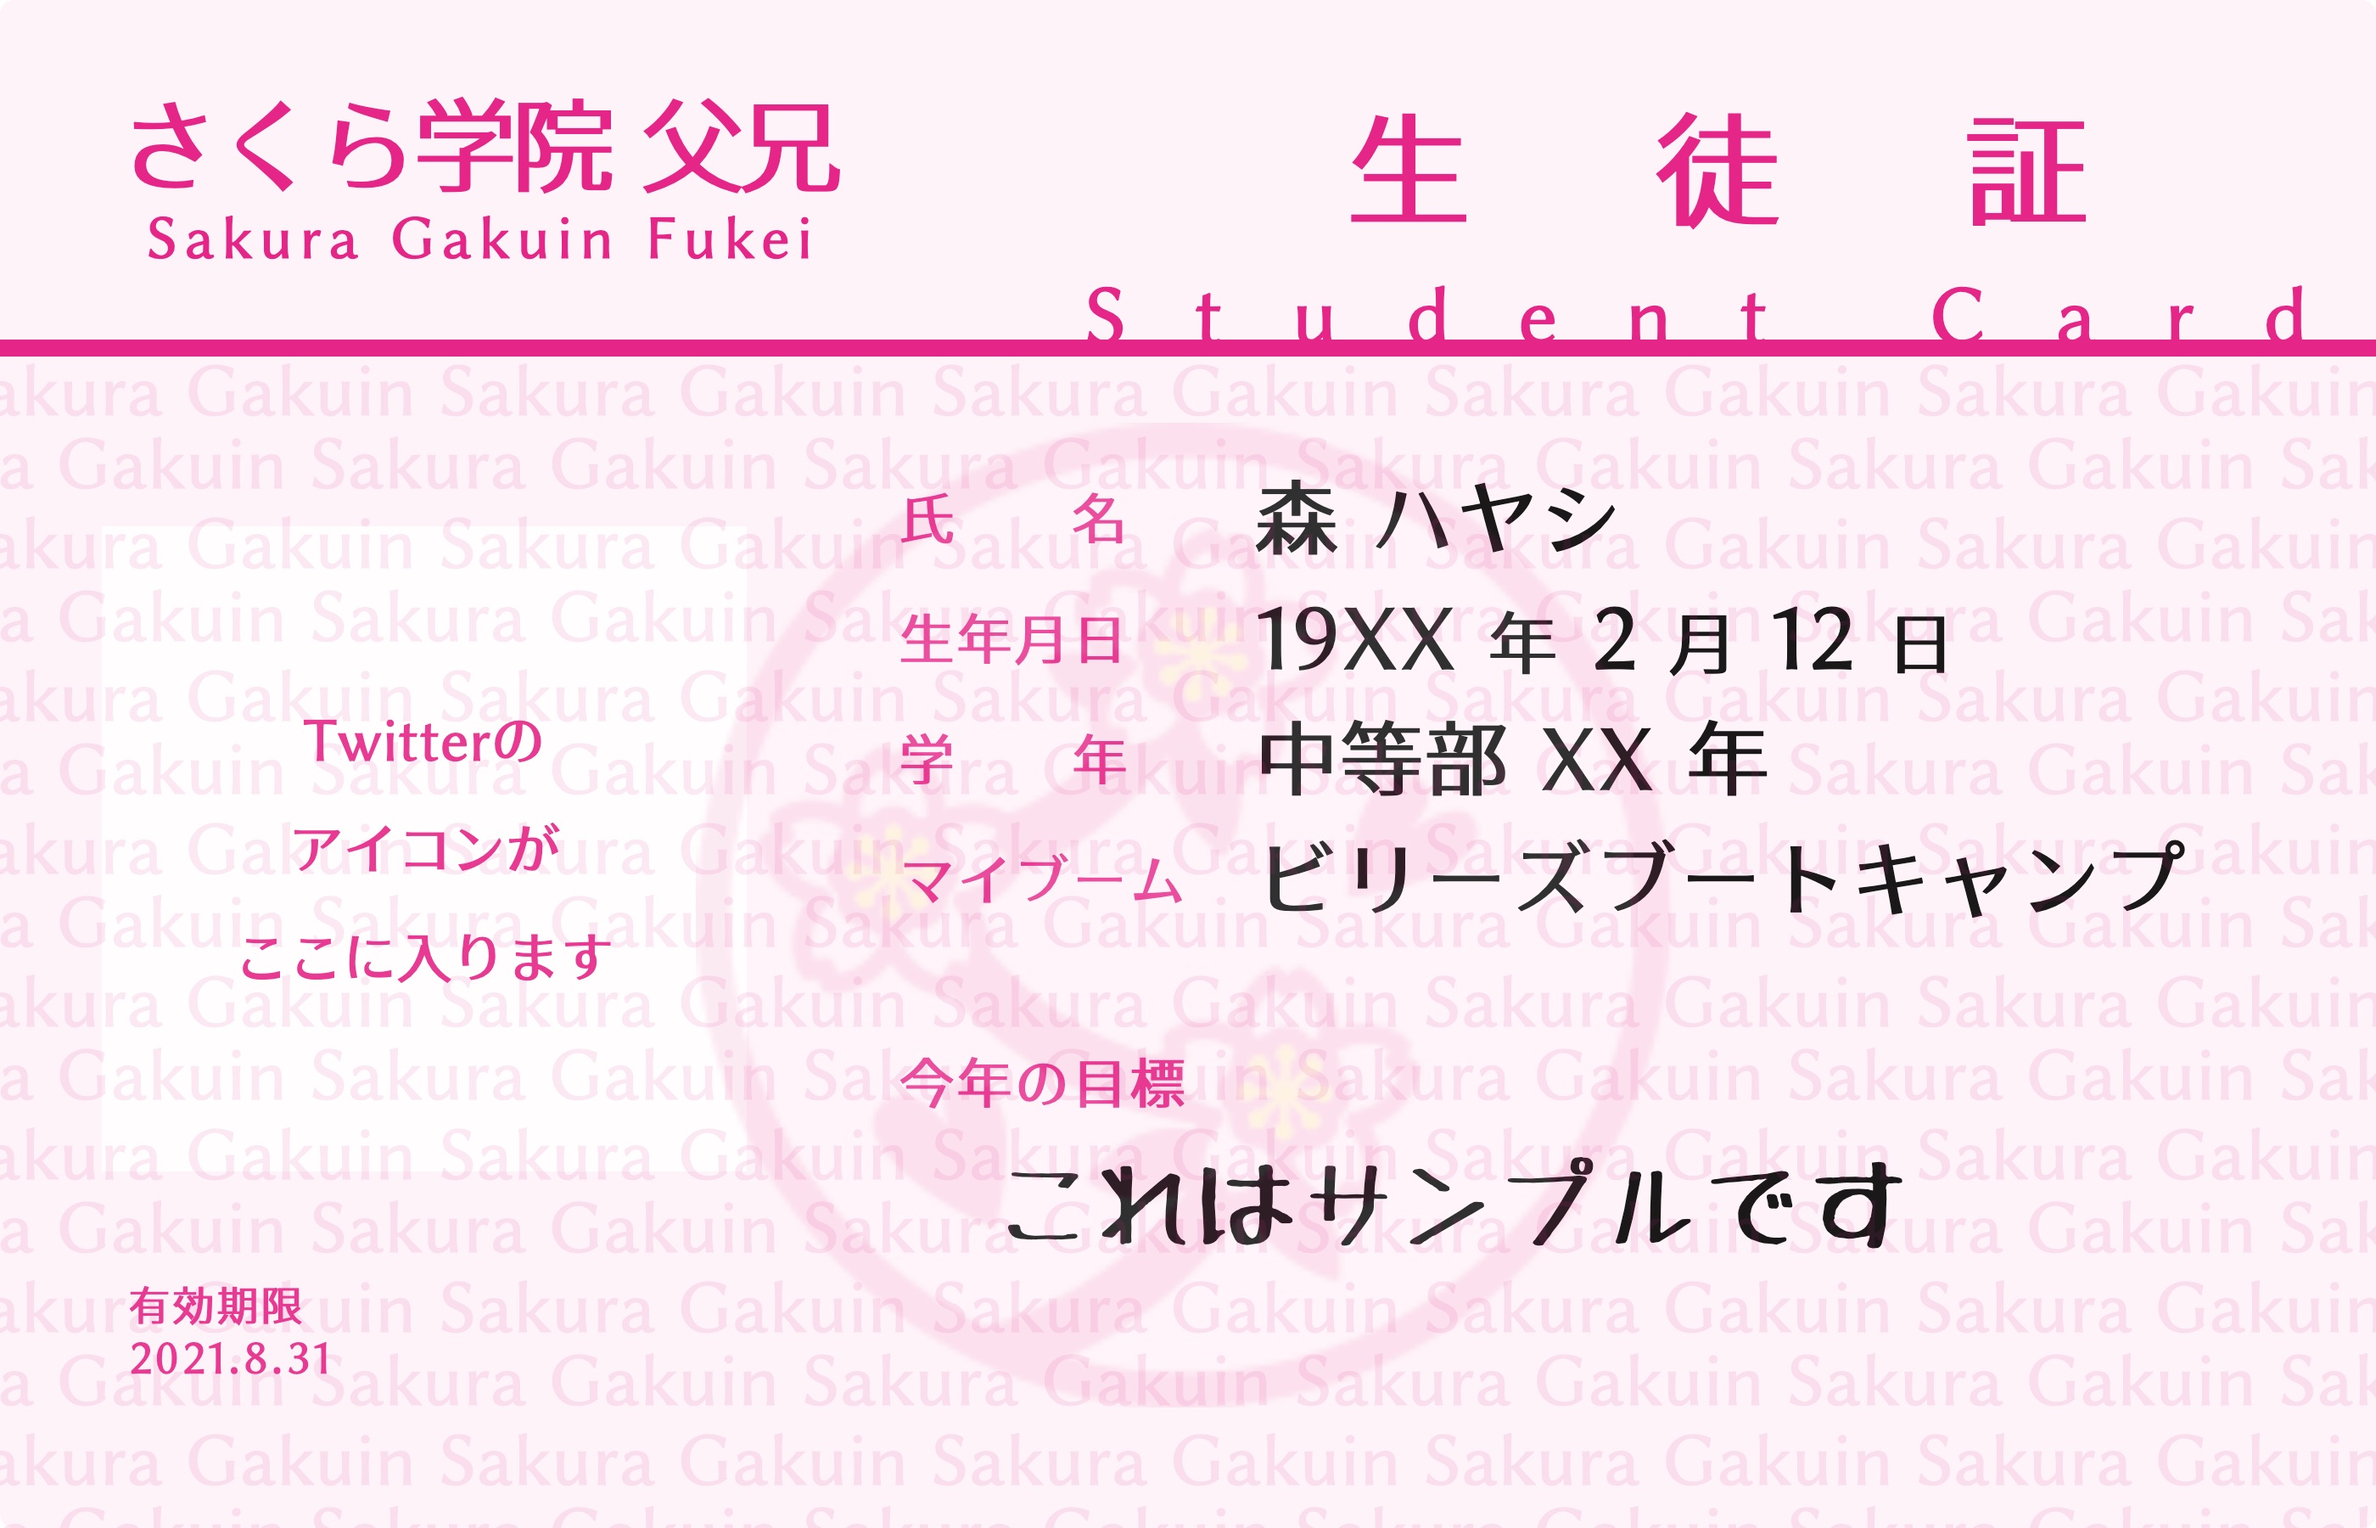
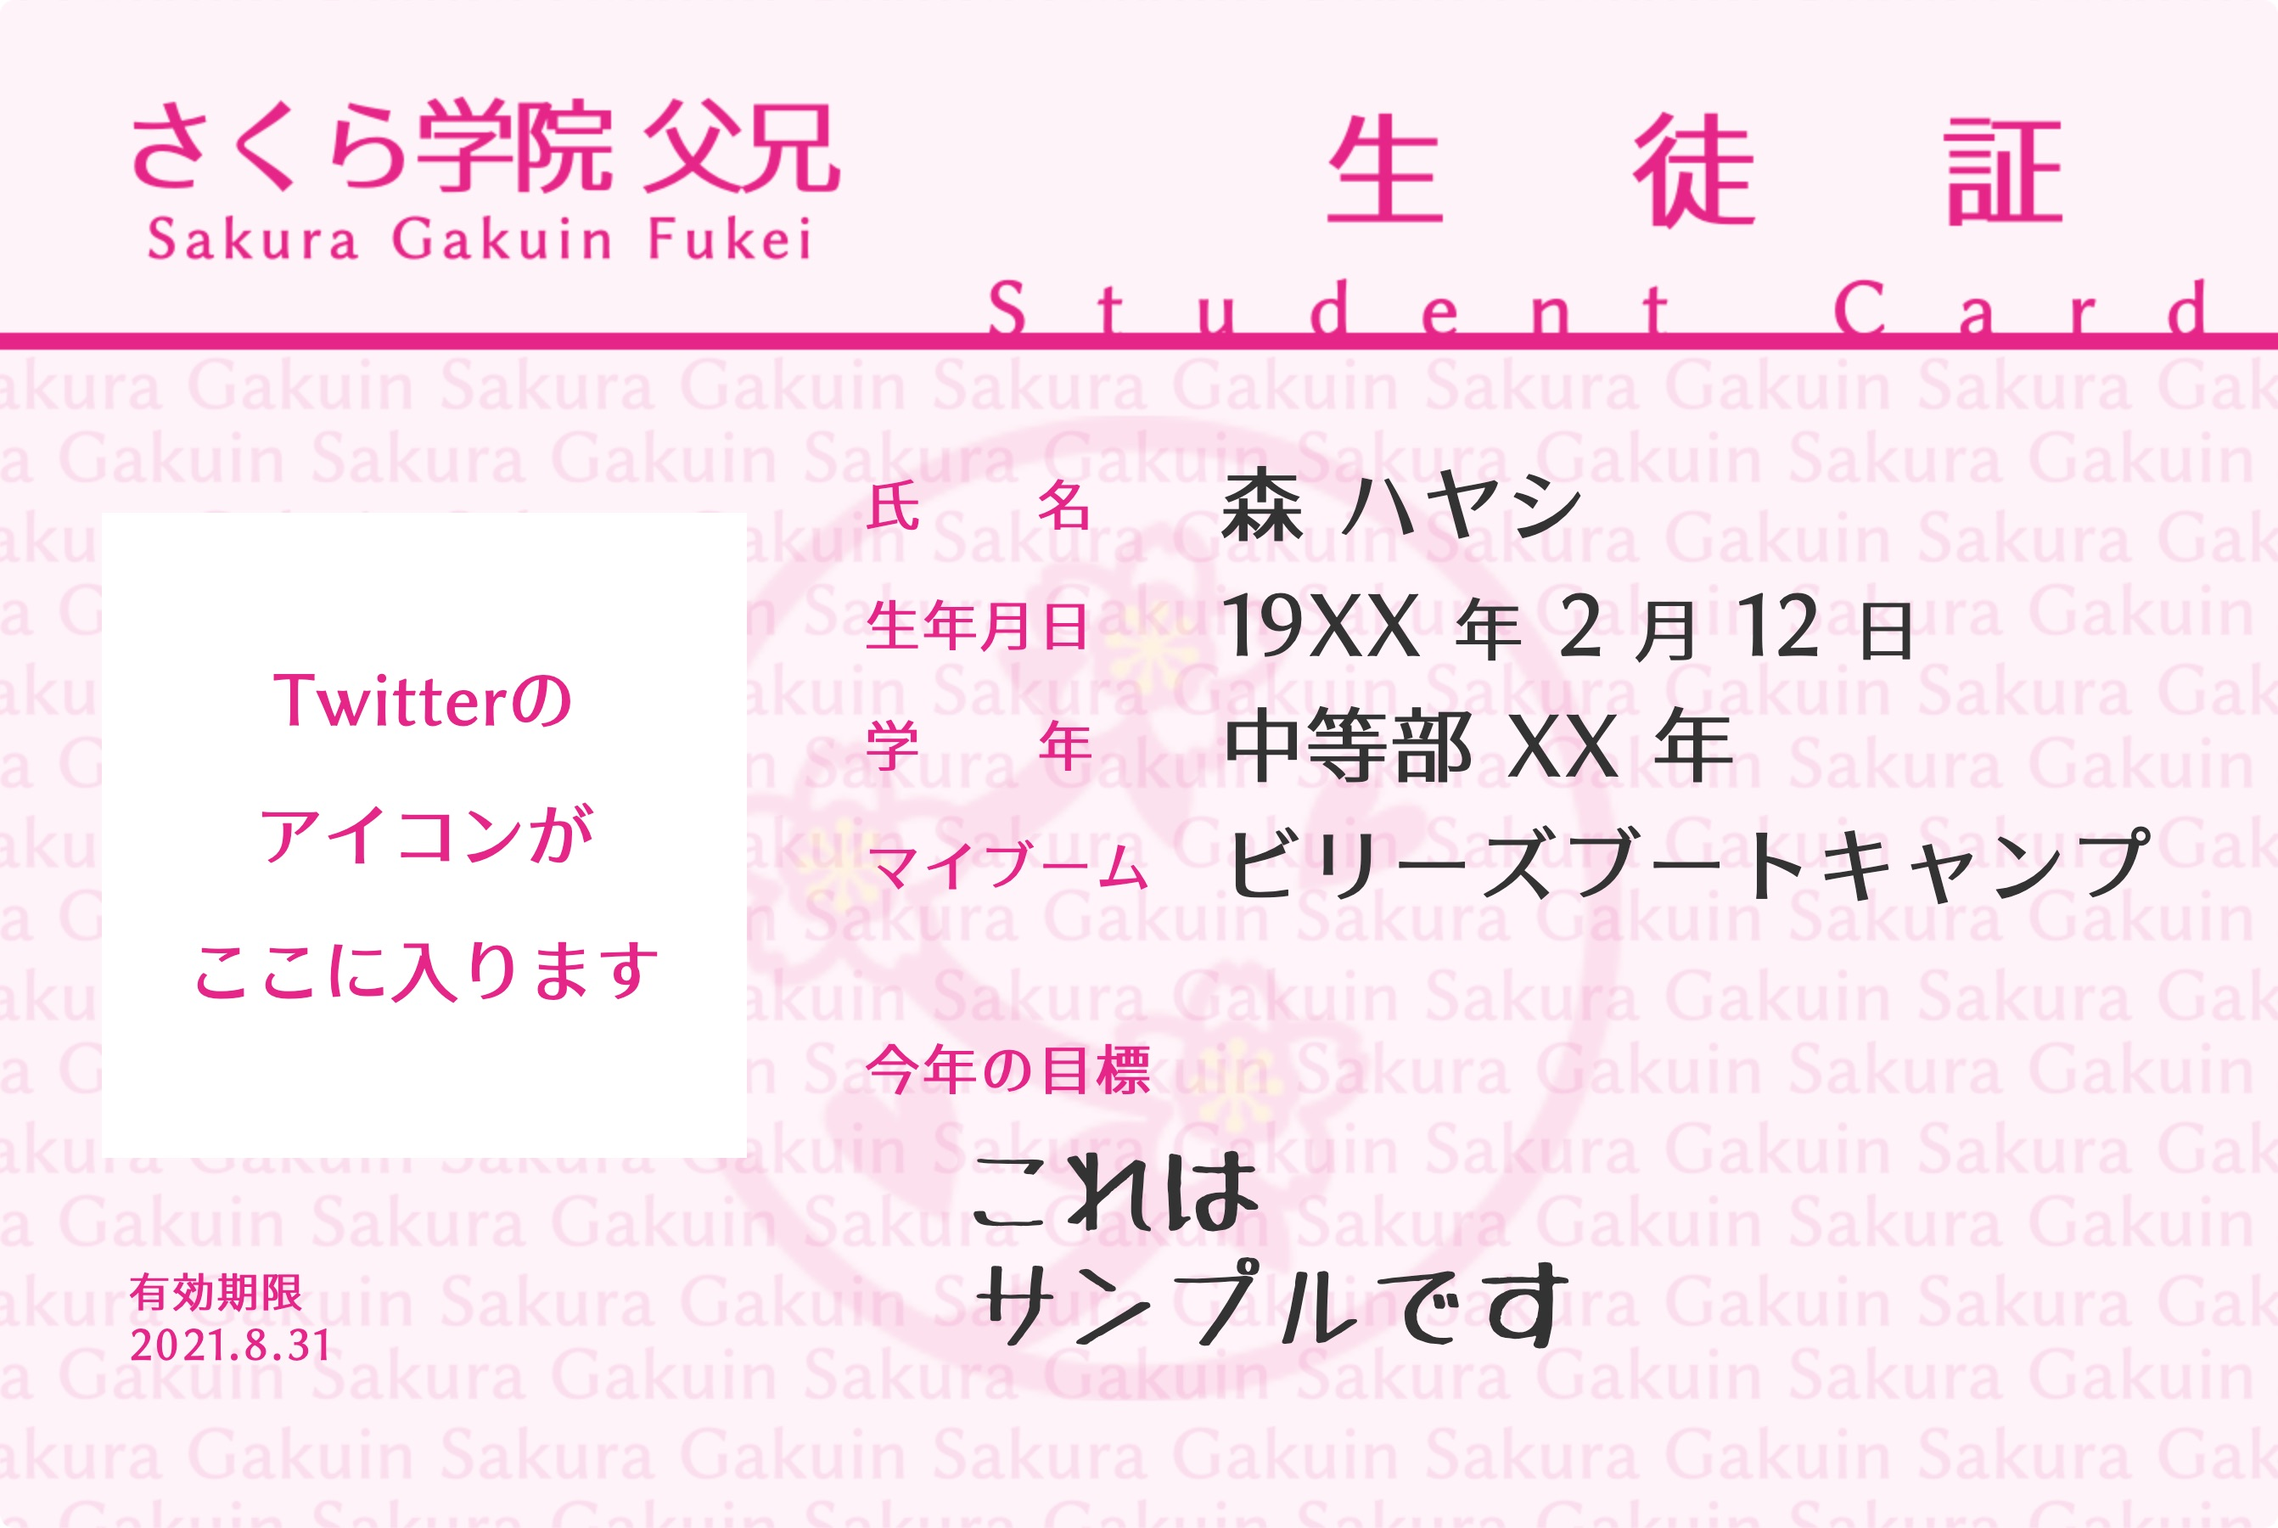
fix size

diff --git a/src/components/CardBody.tsx b/src/components/CardBody.tsx
@@ -2,13 +2,13 @@ import React from 'react'
 import { makeStyles } from '@material-ui/core/styles'
 
 import { Store } from 'Store'
-import CardBodyBackground from 'components/CardBodyBackground'
 
 const useStyles = makeStyles({
   body: {
     width: '100%',
     height: 690,
     display: 'flex',
+    paddingTop: 202,
   },
   left: {
     width: 470,
@@ -53,11 +53,11 @@ const useStyles = makeStyles({
   value: {
     width: 600,
     fontSize: 48,
-    color: 'black',
+    color: '#333333',
   },
   ymd: {
     fontSize: 40,
-    color: 'black',
+    color: '#333333',
   },
   boomRow: {
     width: '100%',
@@ -75,7 +75,7 @@ const useStyles = makeStyles({
     width: 760,
     height: 190,
     fontSize: 56,
-    color: 'black',
+    color: '#333333',
     fontFamily: 'TanukiMagic !important',
     letterSpacing: 2,
     lineHeight: 1.2,
@@ -98,10 +98,10 @@ const Card: React.FC = () => {
     <div className={classes.body}>
       <div className={classes.left}>
         <div className={classes.icon}>
-          <img src={iconUrl} width='100%' height='auto' alt='アイコン' />
-          {/* <div>Twitterの</div>
+          {/* <img src={iconUrl} width='100%' height='auto' alt='アイコン' /> */}
+          <div>Twitterの</div>
           <div>アイコンが</div>
-          <div>ここに入ります</div> */}
+          <div>ここに入ります</div>
         </div>
         <div className={classes.empire}>
           <div>有効期限</div>
@@ -134,7 +134,6 @@ const Card: React.FC = () => {
         <div className={classes.targetKey}>今年の目標</div>
         <div className={classes.targetValue}>{target}</div>
       </div>
-      <CardBodyBackground />
     </div>
   )
 }

diff --git a/src/components/Card.tsx b/src/components/Card.tsx
@@ -1,7 +1,6 @@
 import React from 'react'
 import { makeStyles } from '@material-ui/core/styles'
 
-import CardHeader from 'components/CardHeader'
 import CardBody from 'components/CardBody'
 
 const pink = '#E62588'
@@ -10,7 +9,8 @@ const useStyles = makeStyles({
   root: {
     width: '100%',
     height: '100%',
-    backgroundColor: '#FEF3F8',
+    backgroundImage: 'url("background.png")',
+    backgroundSize: 'cover',
     borderRadius: 8,
     color: pink,
   },
@@ -20,7 +20,6 @@ const Card: React.FC = () => {
   const classes = useStyles()
   return (
     <div className={classes.root}>
-      <CardHeader />
       <CardBody />
     </div>
   )

diff --git a/src/components/CardHeader.tsx b/src/components/CardHeader.tsx
@@ -6,7 +6,7 @@ const pink = '#E62588'
 const useStyles = makeStyles({
   header: {
     width: '100%',
-    height: 164,
+    height: 160,
     display: 'flex',
   },
   logo: {
@@ -27,7 +27,7 @@ const useStyles = makeStyles({
     fontSize: 72,
     marginLeft: 'auto',
     paddingTop: 64,
-    marginRight: 60,
+    marginRight: 16,
     letterSpacing: 110,
   },
   titleEn: {

diff --git a/src/components/CardBodyBackground.tsx b/src/components/CardBodyBackground.tsx
@@ -29,7 +29,7 @@ const useStyles = makeStyles({
   },
   backLogo: {
     position: 'absolute',
-    width: 1400,
+    width: 1342,
     height: 660,
     display: 'flex',
     alignItems: 'center',

diff --git a/src/pages/EditPage.tsx b/src/pages/EditPage.tsx
@@ -29,7 +29,7 @@ const useStyles = makeStyles({
   card: {
     position: 'absolute',
     top: -2000,
-    width: 1400,
+    width: 1342,
     height: 900,
   },
   button: {
